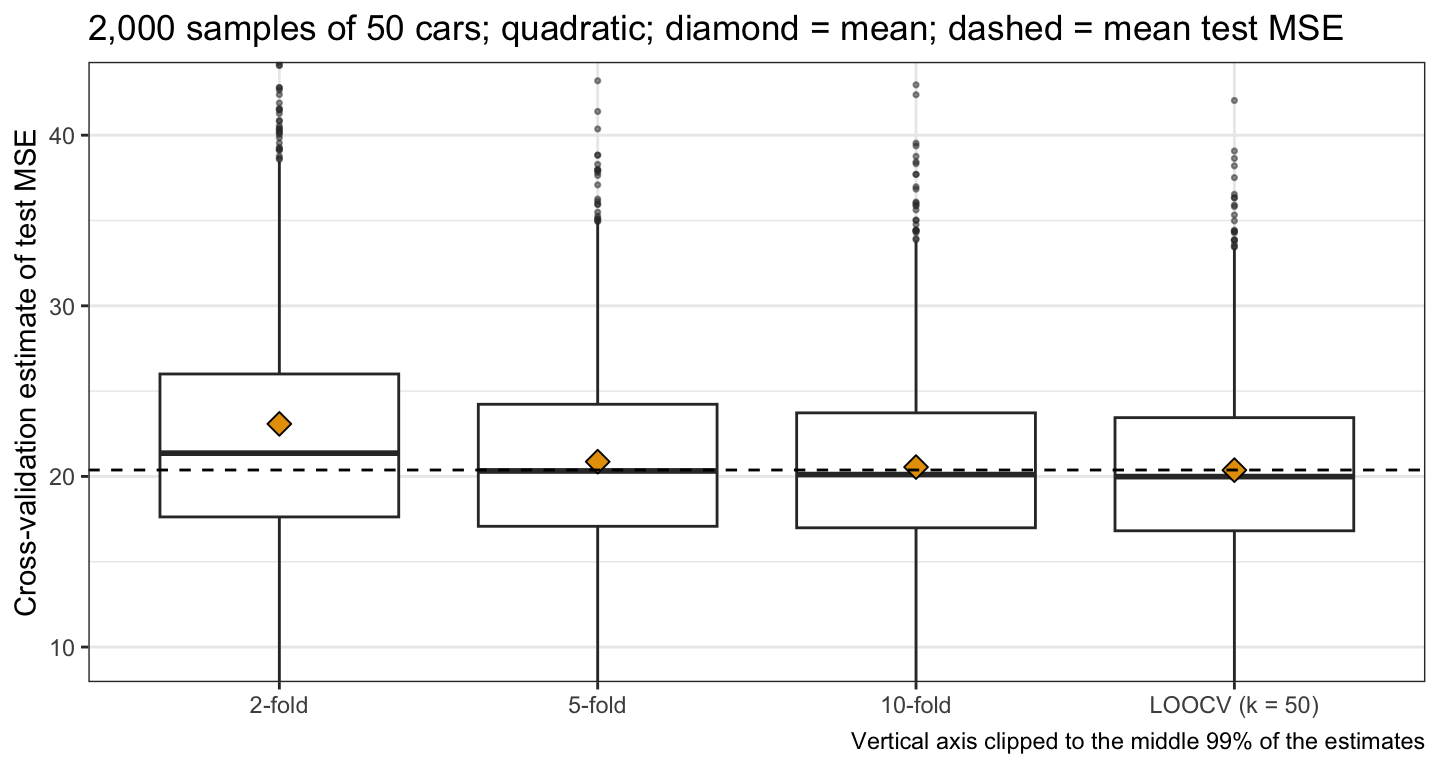
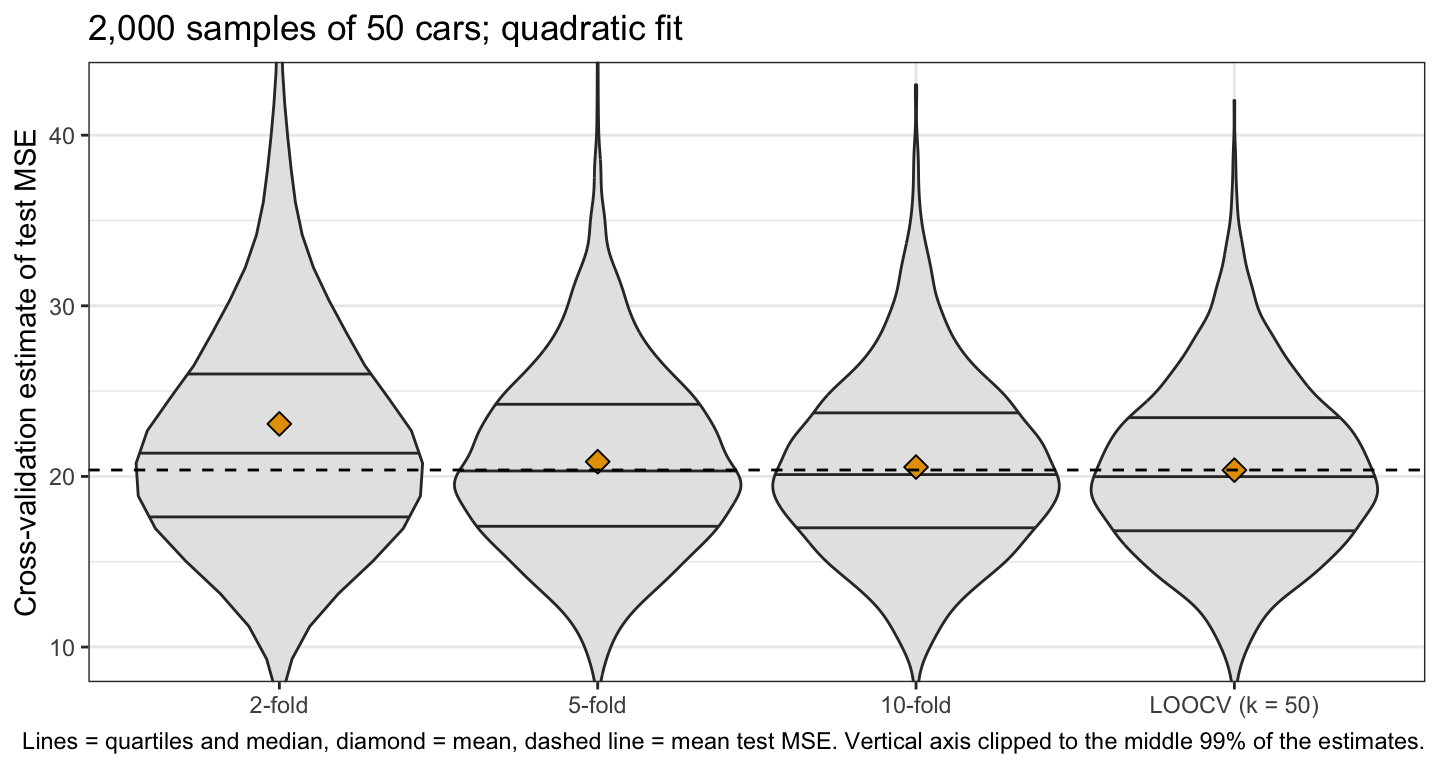
Cross-validation: violin plot with quartile lines replaces boxplot; notes-author and slides-author prefer violins; next-semester note

Changed region(s): [[0.0938, 0.0938, 0.9688, 0.9062], [0.0312, 0.9375, 1.0, 1.0], [0.4375, 0.0, 0.9375, 0.0625]]

diff --git a/.claude/agents/notes-author.md b/.claude/agents/notes-author.md
@@ -205,6 +205,18 @@ still. When `shape` or `linetype` must encode a *different* variable, use a
 color-blind-friendly palette — Okabe-Ito or viridis — instead of the default hue
 scale.
 
+**Prefer violin plots to boxplots** when showing the distribution of a
+quantity across groups, with lines at the quartiles and the median, as a
+boxplot draws them:
+`geom_violin(fill = "grey90", scale = "width", quantiles = c(0.25, 0.5, 0.75), quantile.linetype = "solid")`
+(ggplot2 4.0 and later; ggplot2's default violin has no lines, and before 4.0
+the argument was `draw_quantiles = c(0.25, 0.5, 0.75)`). Add a
+`stat_summary()` point for the mean only if the mean matters, and explain the
+lines in the figure caption or the text interpreting the figure. A violin shows
+the shape of the distribution (skewness, several modes), which a box hides. Use
+`geom_boxplot()` only when the five-number summary itself is the point. Plots
+must stay legible without color, as above.
+
 **Put extensive R code in a collapsed callout.** For a chunk with substantial
 setup — simulating data, fitting several models, building a prediction grid or
 a table — wrap it in `::: {.callout-note collapse="true"}`, suppress its

diff --git a/LECTURE-LOG.md b/LECTURE-LOG.md
@@ -98,6 +98,13 @@ the semester in which they were noted.
   notes-only chapter in Fall 2026; on 2026-10-08 it was scheduled for
   Mon 2026-10-12 (see the plan table above), so no decision is needed unless
   that changes.
+- Boxplots to violin plots: `geom_boxplot()` still appears in
+  `04-classification/60-qda-naive-bayes.qmd` and `05-resampling/20-bootstrap.qmd`
+  (replace with `geom_violin(fill = "grey90", scale = "width", quantiles = c(0.25, 0.5, 0.75), quantile.linetype = "solid")`
+  as in `05-resampling/10-cross-validation.qmd`, then
+  re-render and refresh the figures in their slide decks). The course now
+  prefers violin plots; `notes-author` and `slides-author` were updated
+  2026-10-15 (noted 2026-10-15, to do next semester).
 - Callout headings: `04-classification/30-flexible-logistic-regression.qmd`
   has a callout headed `### Two questions, two verdicts`, which is not one of
   the three fixed callout headings in `CONVENTIONS.md`.

diff --git a/.claude/agents/slides-author.md b/.claude/agents/slides-author.md
@@ -107,6 +107,12 @@ built entirely from content that already exists as static output:
   auto-render script doesn't run against reveal.js's DOM in this version.
   `\widehat` is a source-level fix with no such downside; use it in a slide
   file even where the notes chapter it's drawn from uses plain `\hat`.
+- **Violin plots, not boxplots.** A slide reuses the chapter's figure as
+  rendered, so it inherits whatever the notes drew. If the notes chapter still
+  draws a boxplot, do not redraw it (slides execute nothing); flag the figure
+  in your report so `notes-author` can switch the chapter to a violin plot
+  (the course prefers violins, which show the shape of a distribution) and
+  re-render.
 - **Numbers quoted from a model** (a coefficient, a $p$-value, an odds ratio)
   are already baked into the frozen markdown as plain text wherever the notes
   chapter used inline R — pull the already-computed value from there rather
